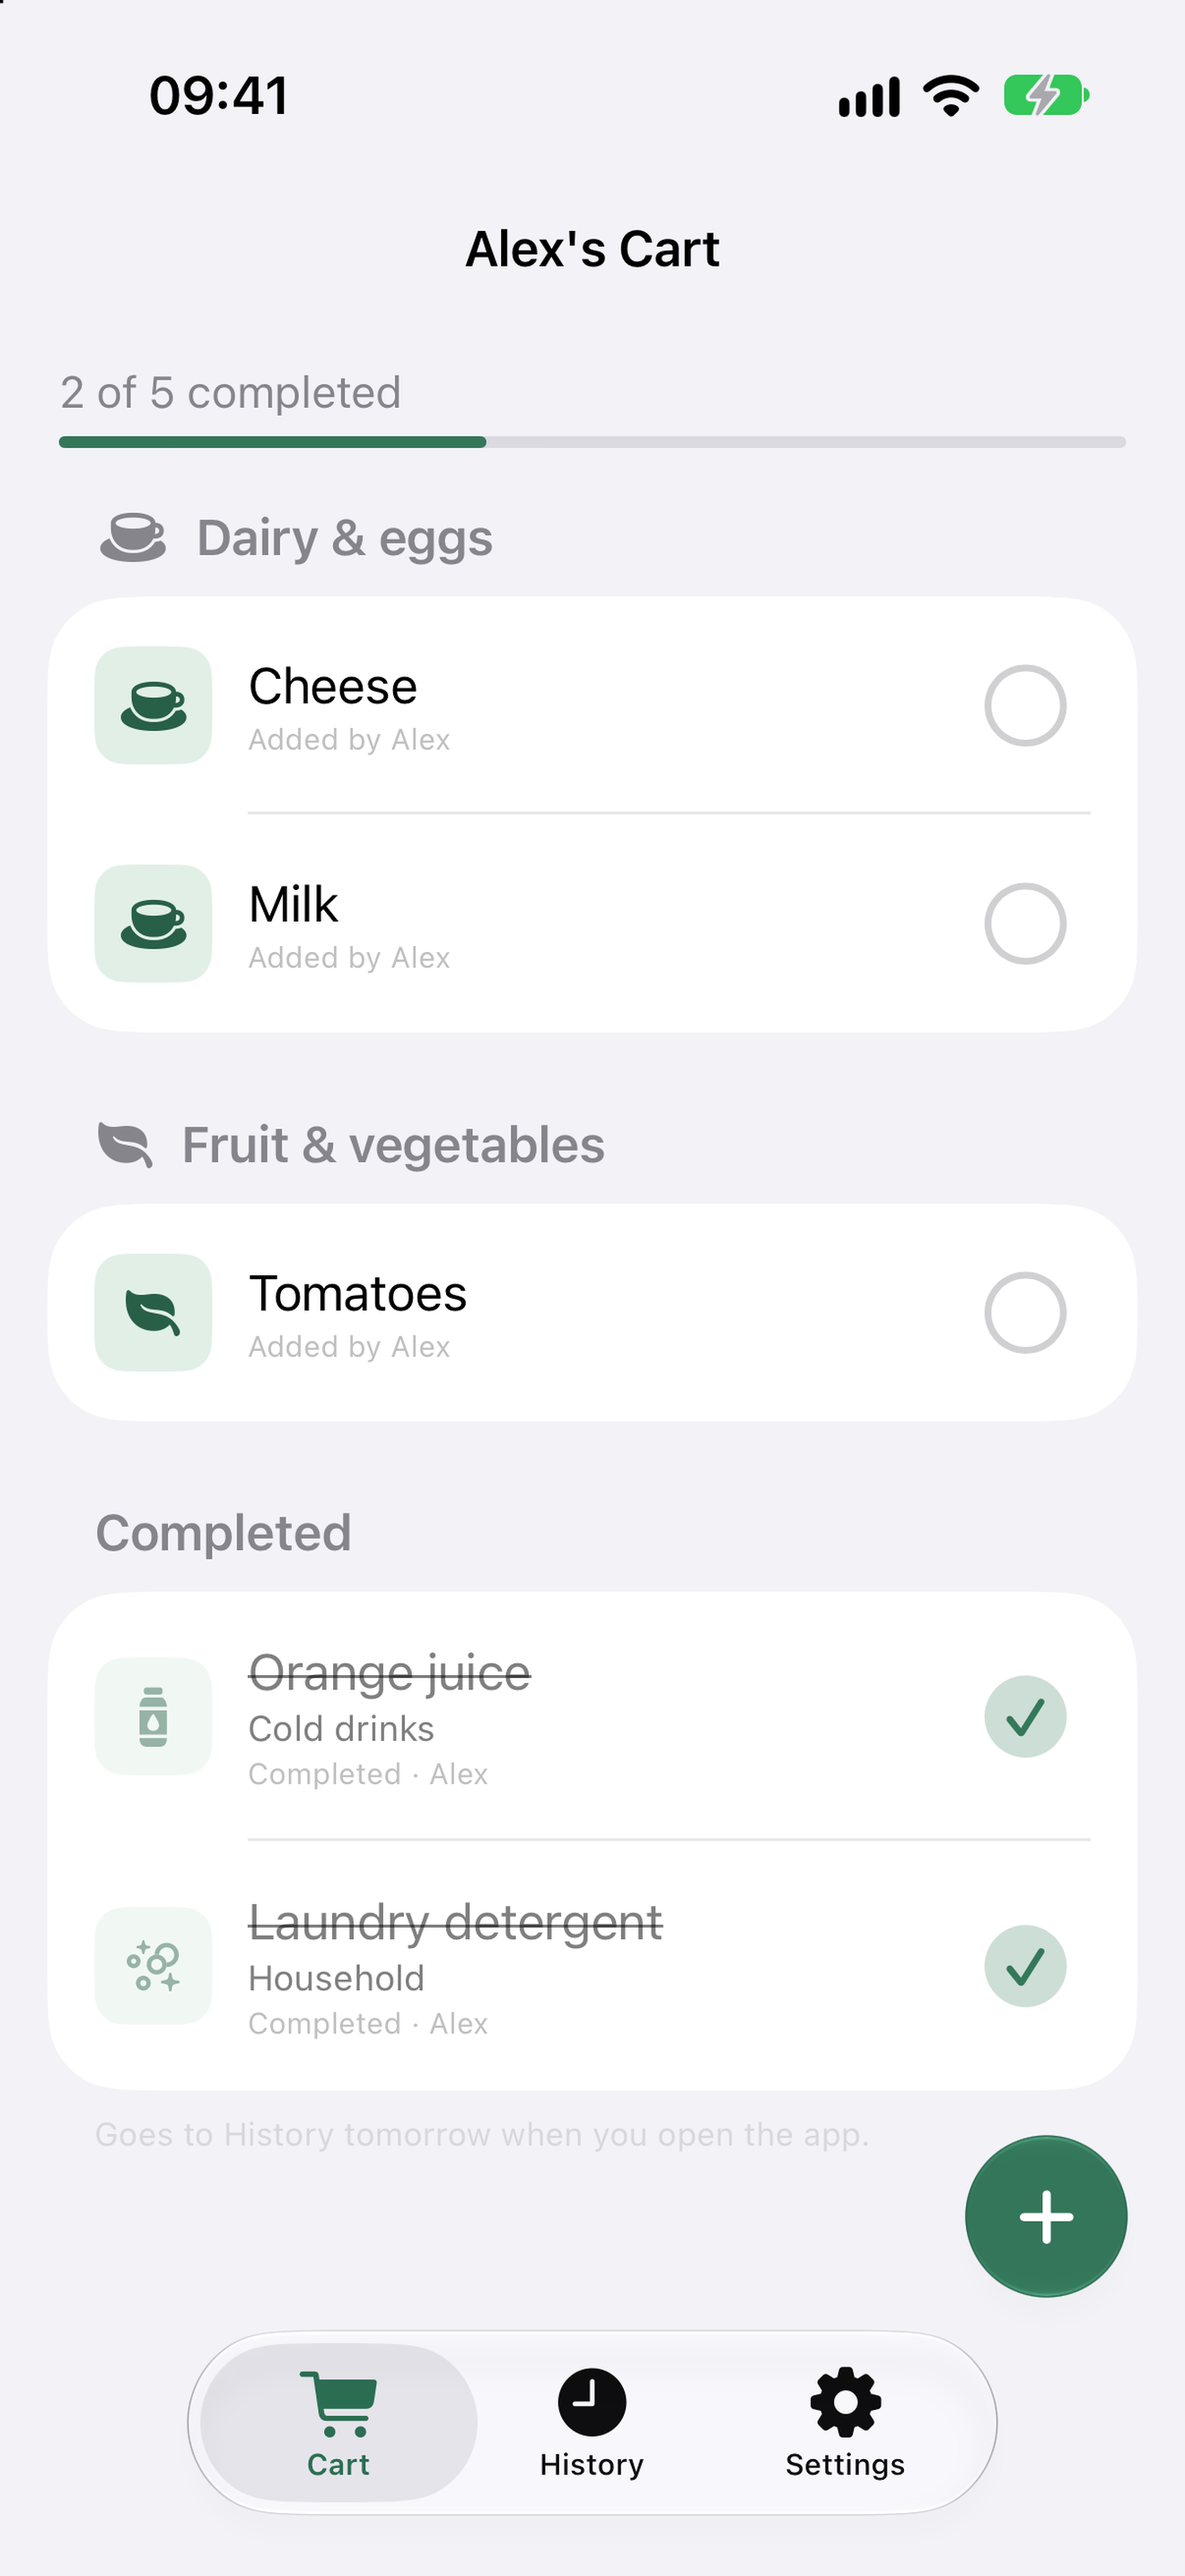
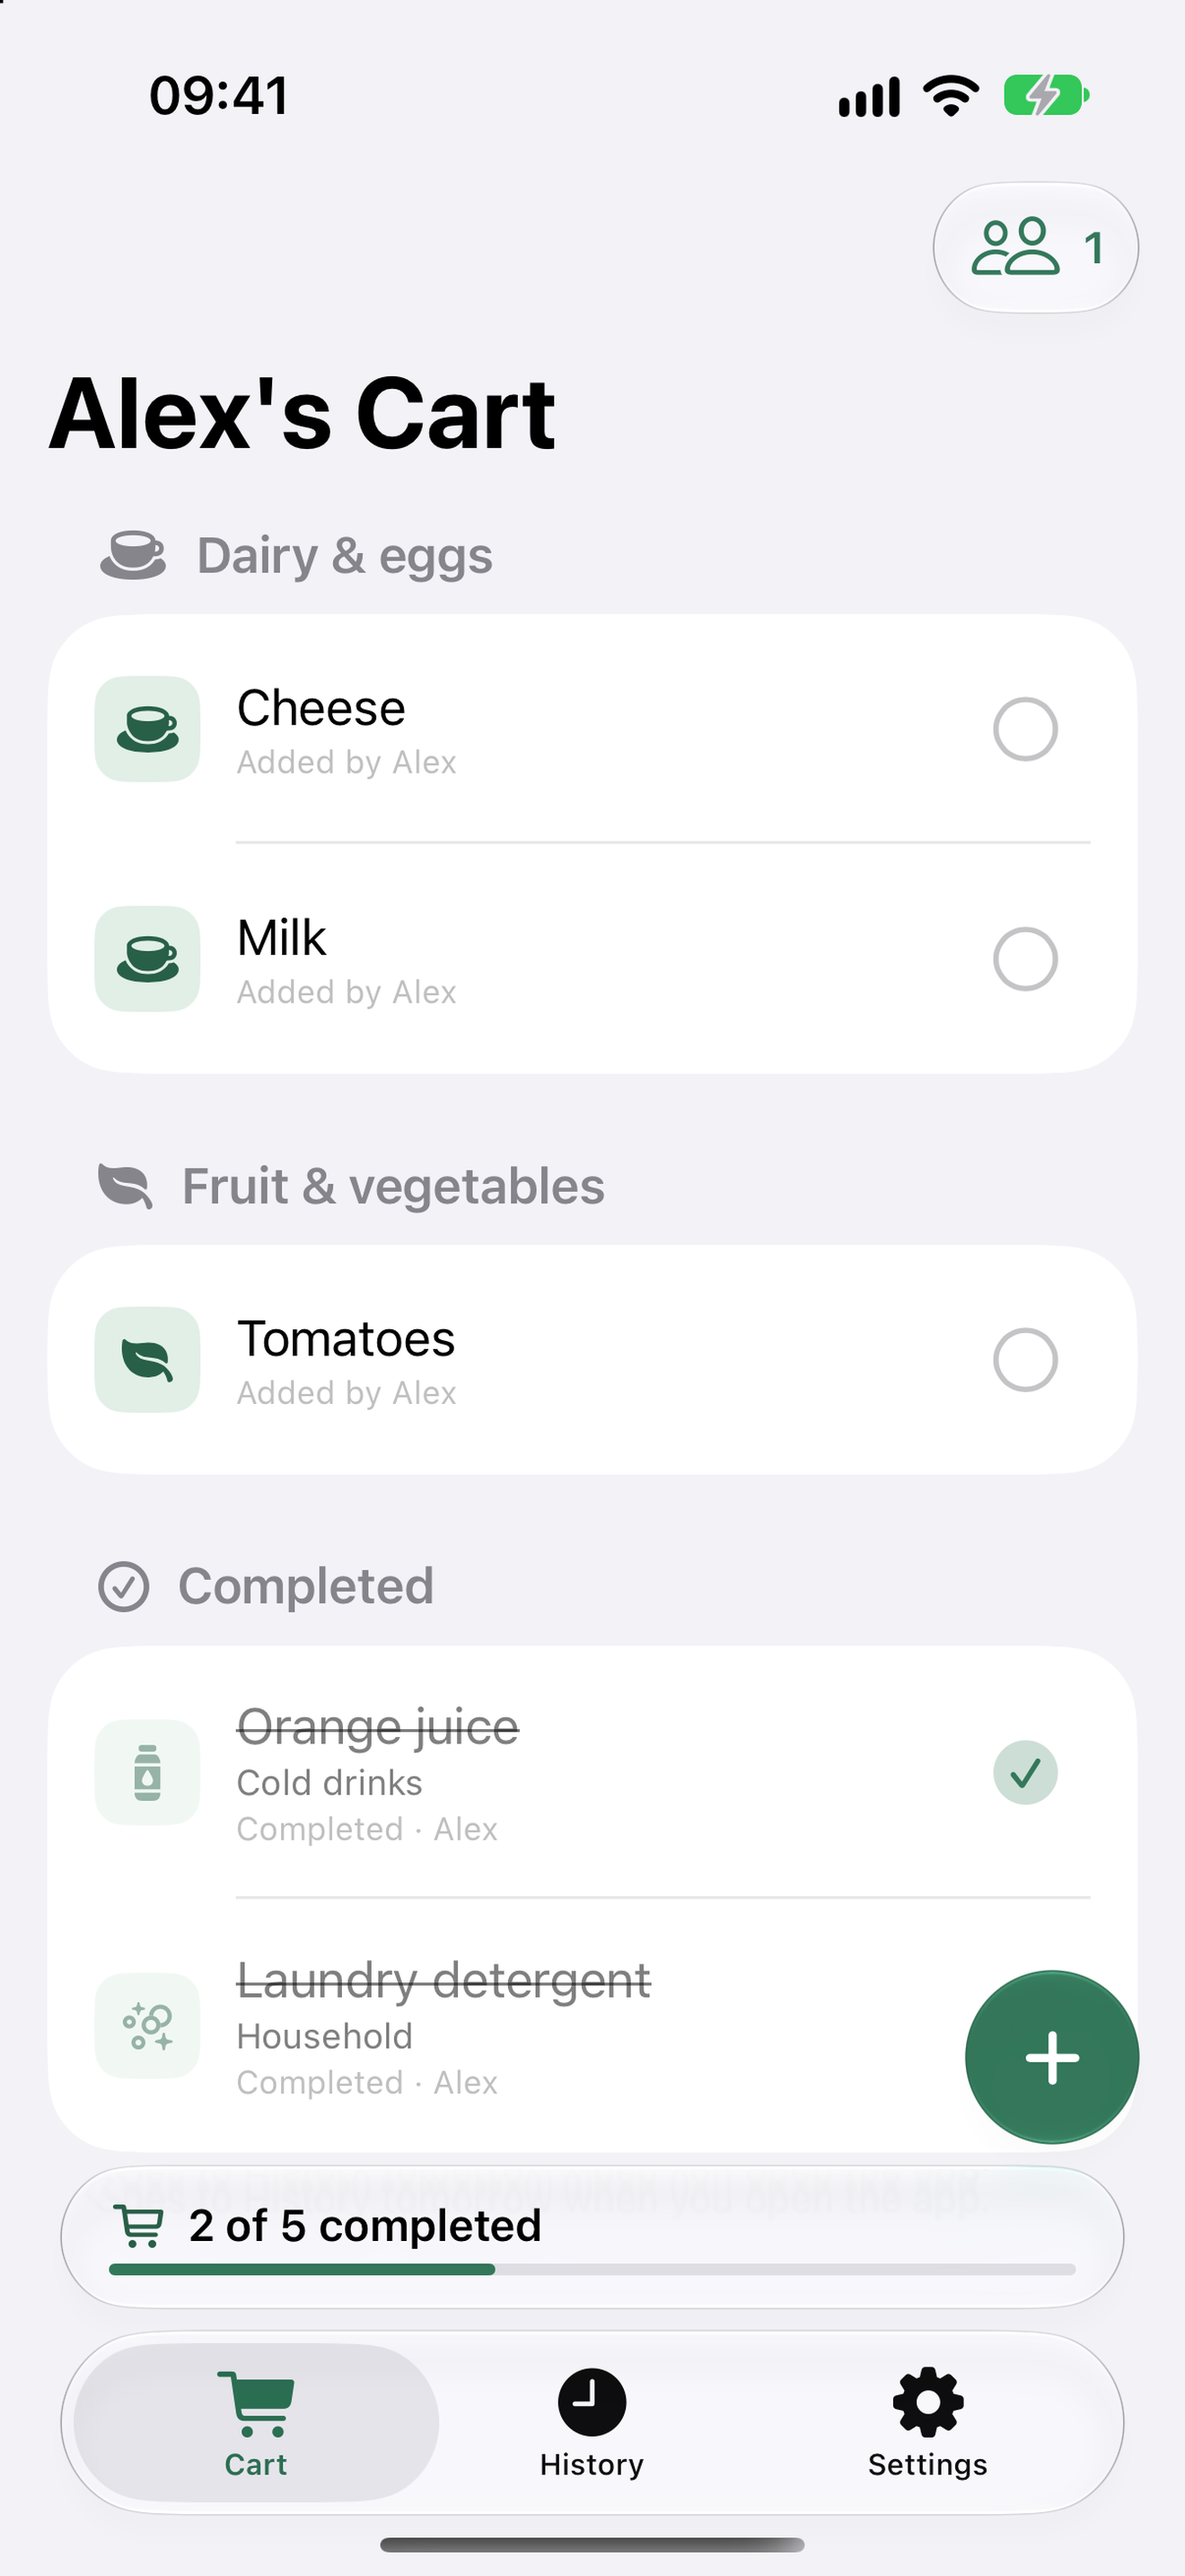
chore(store): refresh App Store screenshots for the 1.6.0 redesign
Recapture welcome, cart, history and settings in English and Russian from
the demo UI on the session simulator (iPhone 17, iOS 27), scaled to
1320 x 2868; same file names, so the README images update too.

Validation: all eight images checked visually (no system prompts, status
bar 09:41, localized text and data); sizes verified with PIL.

diff --git a/assets/store/README.md b/assets/store/README.md
@@ -8,10 +8,10 @@ repository and attaches it under App Review Information.
 
 ## App Store Connect: iPhone 6.9" (1320 × 2868)
 
-Current set for the next version after 1.5.0, light theme, captured on 2026-09-21 from the
-iOS 27 redesign. English files are in `screenshots/asc-6.9/` (the repository README shows
+Current set for 1.6.0, light theme, captured on 2026-09-22 from the iOS 26/27 redesign (native
+lists, glass add button, progress in the tab bar accessory, Settings as a form). English files are in `screenshots/asc-6.9/` (the repository README shows
 them); Russian files with the same names are in `screenshots/asc-6.9/ru/`. Version 1.5.0 was
-submitted with the older 1.0-era set, so these replace it in the next version record.
+submitted with the older 1.0-era set; these replace it in the 1.6.0 version record.
 
 | # | File | Screen |
 |---|------|--------|
